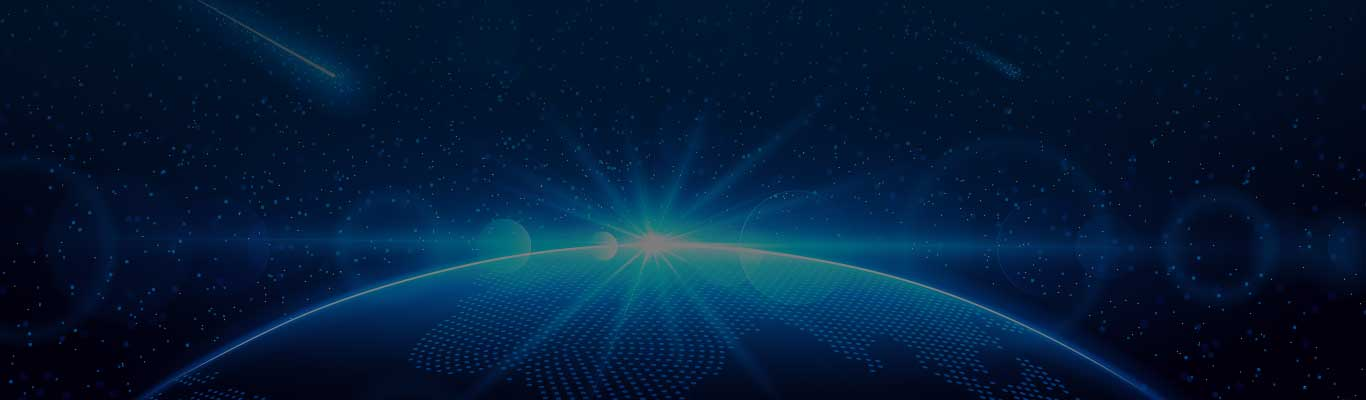
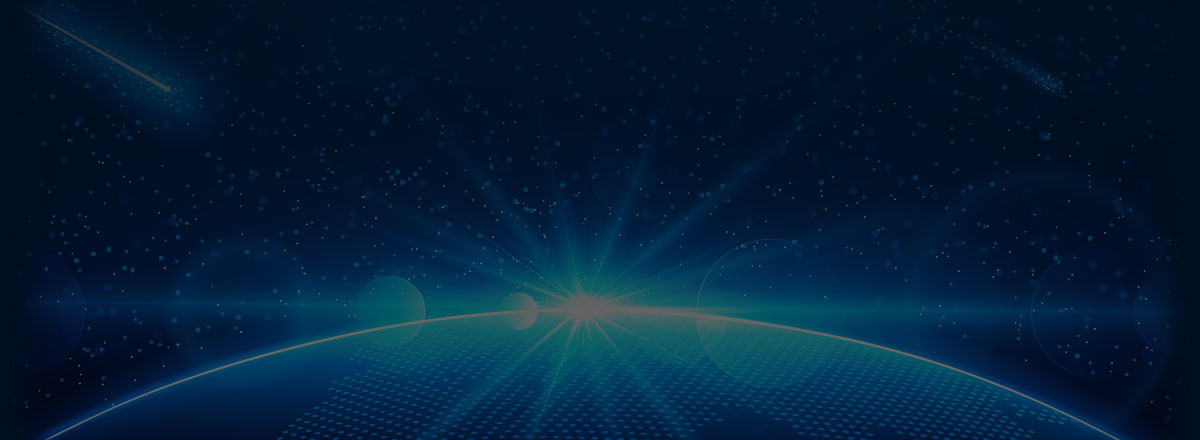
business-scenarios: done of style and image changes

diff --git a/src/app/components/business-scenario/business-scenario.component.html b/src/app/components/business-scenario/business-scenario.component.html
@@ -1,29 +1,32 @@
 
-	<div class="business-scenario-banner">
+<div class="business-scenario-banner">
+	<div class="positioning">
 		<h2>已有超过<span>100</span>家企业选择和星环合作</h2>
 		<p>大数据分析和加速，是目前市场上最热门，也是行业用户最关心的领域。星环科技作为国内推出首个基于 SPARK 和 HADOOP 2.0 的大数据平台软件的公司，专注于技术的领先于产品的完善。在市场方面，真诚的希望与各行业的ISV，系统集成商，HADOOP服务商展开深入，双赢，长期的合作</p>
 	</div>
-	<div class="business-scenarios">
-		<h4>业务方案</h4>
-		<ul class="scenarios-ul">
-			<li
-				*ngFor="let scenario of scenarios"
-				(click)="gotoScenario(scenario)"
-				[ngStyle]="{'background': 'transparent url('+ scenario.screenshot+ ')'+ 'no-repeat center top'}">
-				<a>{{scenario.short}}</a>
-				<!-- <a routerLink="/business-scenario/{{scenario.id}}">{{scenario.text}}</a> -->
-			</li>
+</div>
+
+<div class="business-scenarios">
+	<h4>业务方案</h4>
+	<ul class="scenarios-ul">
+		<li
+			*ngFor="let scenario of scenarios"
+			(click)="gotoScenario(scenario)"
+			[ngStyle]="{'background': '#fff url('+ scenario.screenshot+ ')'+ 'no-repeat center top'}">
+			<a>{{scenario.short}}</a>
+			<!-- <a routerLink="/business-scenario/{{scenario.id}}">{{scenario.text}}</a> -->
+		</li>
 
 <!-- 			<li class="relational-database">
-				<a routerLink="/business-scenario/relational-database">关系数据库</a>
-			</li>
-			<li class="realtime-computation"><a>实时计算</a></li>
-			<li class="info-retrieval"><a class="scenarios-a">信息检索</a></li>
-			<li class="deep-learning"><a>深度学习</a></li>
-			<li class="data-warehouse"><a>数据仓库</a></li>
-			<li class="analysis-mining"><a>数据分析与挖掘</a></li>
-			<li class="data-mart"><a>数据集市</a></li>
-			<li class="others"><a>其他案例</a></li> -->
-		</ul>
-	</div>
+			<a routerLink="/business-scenario/relational-database">关系数据库</a>
+		</li>
+		<li class="realtime-computation"><a>实时计算</a></li>
+		<li class="info-retrieval"><a class="scenarios-a">信息检索</a></li>
+		<li class="deep-learning"><a>深度学习</a></li>
+		<li class="data-warehouse"><a>数据仓库</a></li>
+		<li class="analysis-mining"><a>数据分析与挖掘</a></li>
+		<li class="data-mart"><a>数据集市</a></li>
+		<li class="others"><a>其他案例</a></li> -->
+	</ul>
+</div>
 

diff --git a/src/app/components/business-scenario/business-scenario.component.sass b/src/app/components/business-scenario/business-scenario.component.sass
@@ -1,16 +1,17 @@
 @import '../common/style/layout'
 \:host
-  @extend .center-box
+  
 
 @mixin background($image, $type:jpg, $bgColor:#fff)
 	background: #{$bgColor} url(/assets/images/scenarios/#{$image}.#{$type}) no-repeat left top
 
 .business-scenario-banner
 	height: 400px
-	background: transparent url("/assets/images/business-scenario-banner.jpg")
-
+	background: #010e20 url("/assets/images/business-scenario-banner.jpg") no-repeat center center
 	color: #fff
 
+.positioning
+	@extend .center-box
 	h2
 		margin: 0
 		padding-top: 130px
@@ -29,6 +30,7 @@
 
 
 .business-scenarios
+	@extend .center-box
 	background: #f3f5f8
 
 	h4
@@ -47,15 +49,13 @@
 			background: #2481e3
 
 .scenarios-ul
-	display: flex
-	flex-wrap: wrap
-	justify-content: space-evenly
 
 	li
 		display: inline-block
+		float: left
 		width: 270px
 		margin-bottom: 25px
-		background: #fff no-repeat
+		margin-left: 24px
 
 		// &.relational-database
 		// 	@include background(relational-database)
@@ -74,7 +74,7 @@
 		// &.others
 		// 	@include background(others)
 
-		a
+	a
 		display: block
 		position: relative
 		//height: 276px
